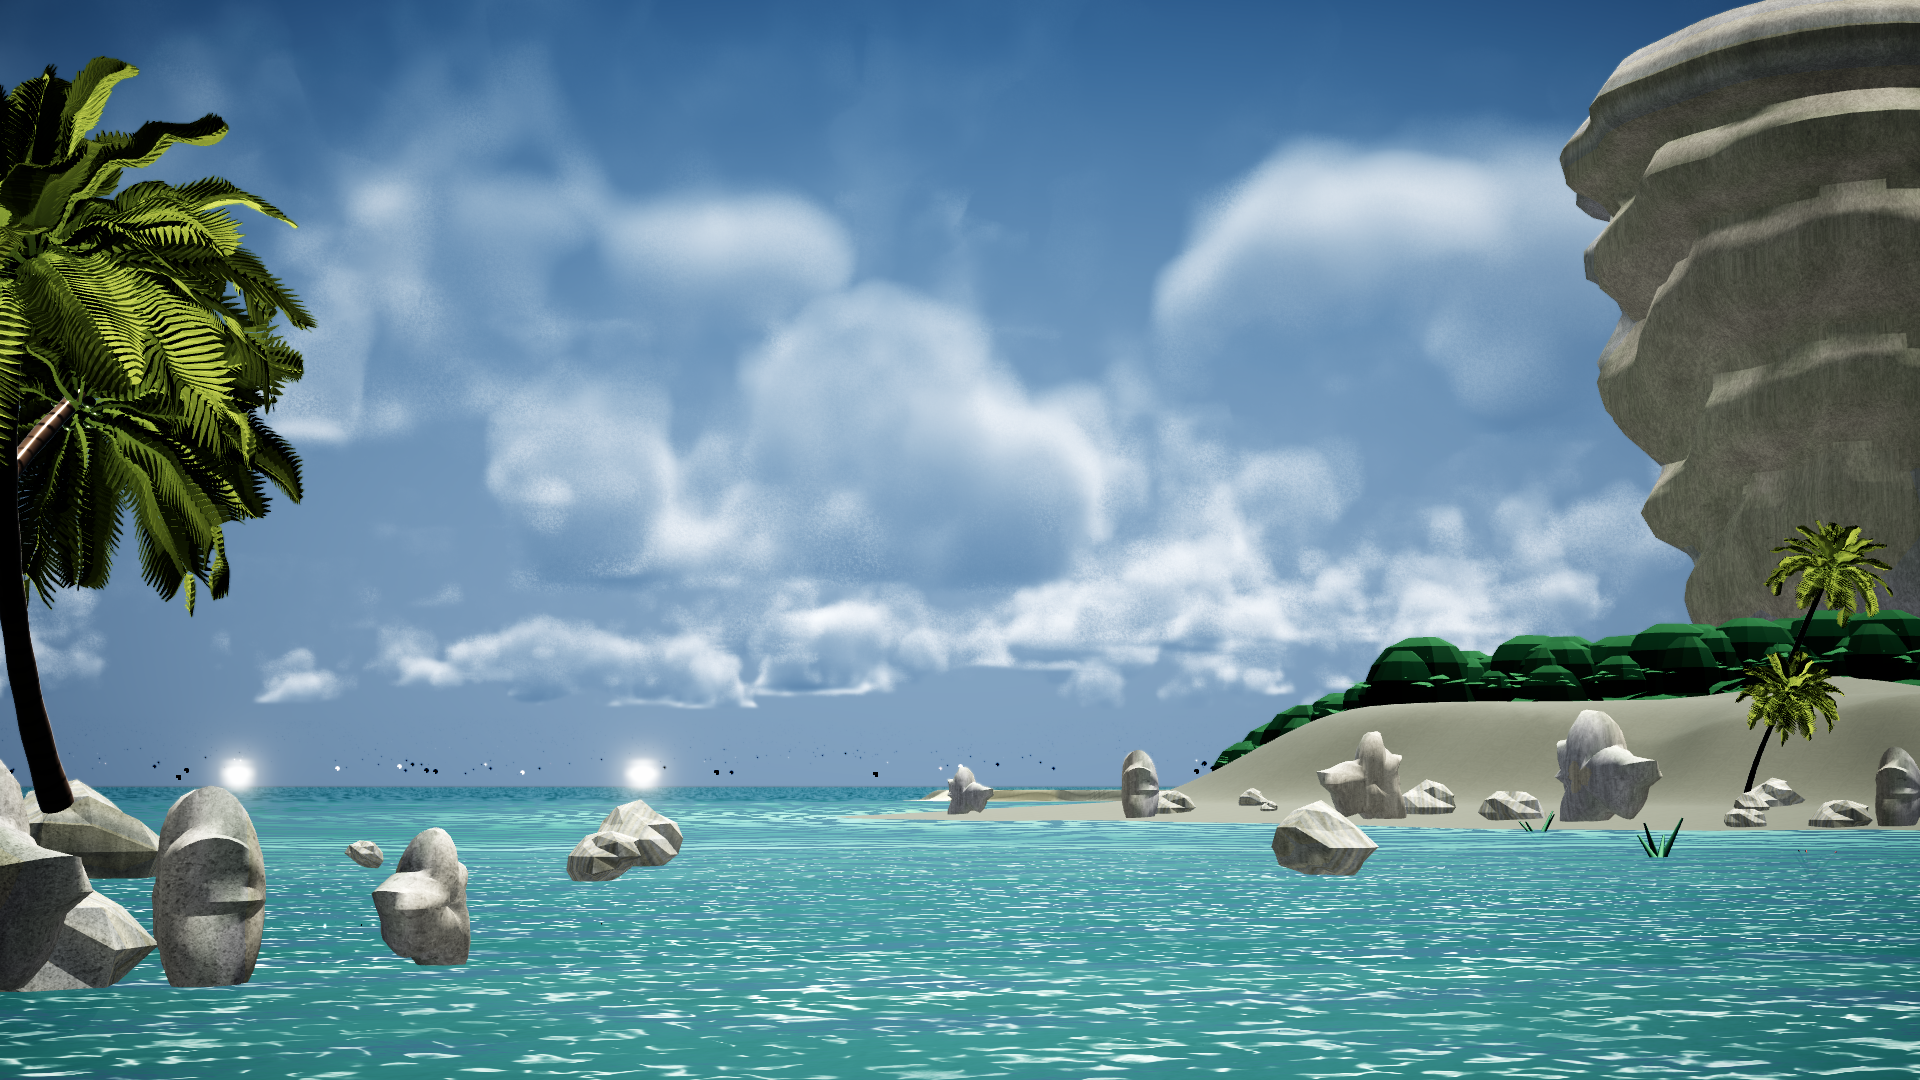
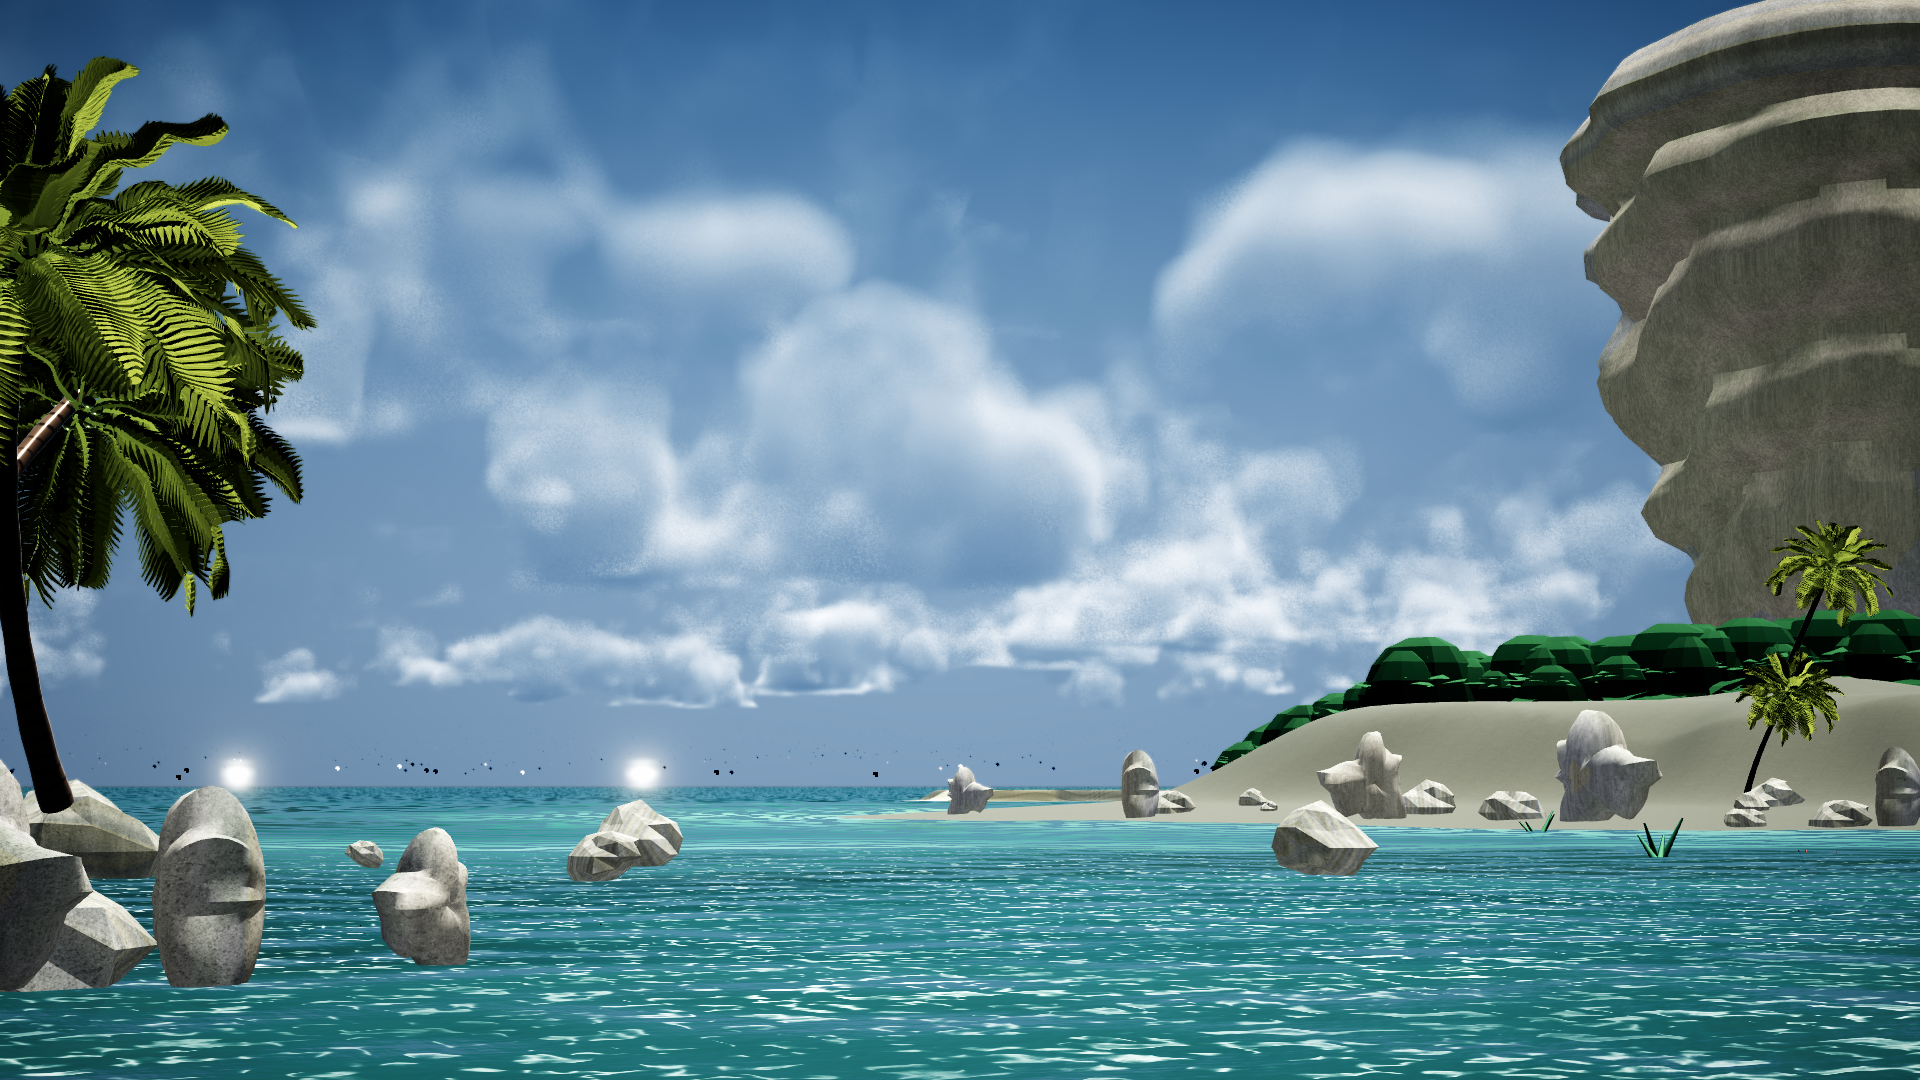
feat(R137): 潟湖水面不再'一片均匀' -- 斑块+错向+压返色. ①水底两级低频噪声造亮沙洲/深色海草分块 ②波纹第二层旋转37度(去灯芯绒) ③_SandAbsorb 0.22->0.34 / _Absorb 0.46->0.55 让深浅真分得开 ④两次踩坑: '只在浅水'门控把斑块系数压到0.1(像素差0.00%) / ValueNoise带符号直接比阈值永不成立(第三次踩) ⑤实测水面亮度std 38.3->42.0(进参考区间35~52), 局部对比52.7->57.7, Islet 125.3/50.2/104.0(饱和+4.8更贴参考)

Changed region(s): [[0.0, 0.7333, 1.0, 1.0], [0.0312, 0.7944, 0.0938, 0.8556], [0.0625, 0.7333, 0.0938, 0.7639]]

diff --git a/Assets/Editor/R137Setup.cs b/Assets/Editor/R137Setup.cs
@@ -1,0 +1,81 @@
+// R137Setup.cs — R137 潟湖水面"太平"（R136 审计 Top1）
+//
+// 审计数据：水面局部对比 我方 45.3 / 参考 86.4（海面 37.0 / 65.0）。
+// 观感：一片均匀浅青绿 + 规则"灯芯绒"波纹。
+// 手法：①水底低频斑块（亮沙/深色海草）②波纹第二层错向 37°
+// 90  斑块开 / 90b 关
+// 91/91b 波纹错向 开/关
+// 92  全部开（推荐档）
+#if UNITY_EDITOR
+using UnityEditor;
+using UnityEngine;
+
+namespace WaterProject.EditorTools
+{
+    internal static class R137Setup
+    {
+        const string Mat = "Assets/Art/Materials/Islet_LagoonWater.mat";
+
+        static void P(string s) => System.IO.File.AppendAllText(
+            System.IO.Path.Combine(Application.dataPath, "../Logs/water_probe.txt"), s);
+
+        static void Set(string key, float v, string tag)
+        {
+            var m = AssetDatabase.LoadAssetAtPath<Material>(Mat);
+            if (m == null) { P("R137 REFUSED: 无 Islet_LagoonWater\n"); return; }
+            if (!m.HasProperty(key)) { P($"R137 REFUSED: 材质没有 {key}\n"); return; }
+            m.SetFloat(key, v);
+            EditorUtility.SetDirty(m);
+            AssetDatabase.SaveAssetIfDirty(m);
+            P($"R137 {tag}: {key}={v:F2}\n");
+        }
+
+        [MenuItem("Tools/R137/90 水底斑块=开")]
+        public static void PatchOn() => Set("_PatchAmt", 1f, "90 斑块开");
+
+        [MenuItem("Tools/R137/90b 水底斑块=关(旧)")]
+        public static void PatchOff() => Set("_PatchAmt", 0f, "90b 斑块关");
+
+        [MenuItem("Tools/R137/91 波纹错向=开")]
+        public static void RotOn() => Set("_WaveRotate", 1f, "91 错向开");
+
+        [MenuItem("Tools/R137/91b 波纹错向=关(旧)")]
+        public static void RotOff() => Set("_WaveRotate", 0f, "91b 错向关");
+
+        [MenuItem("Tools/R137/92 两项都开(推荐)")]
+        public static void BothOn()
+        {
+            Set("_PatchAmt", 1f, "92 斑块开");
+            Set("_WaveRotate", 1f, "92 错向开");
+        }
+
+        [MenuItem("Tools/R137/93 两项都关(旧)")]
+        public static void BothOff()
+        {
+            Set("_PatchAmt", 0f, "93 斑块关");
+            Set("_WaveRotate", 0f, "93 错向关");
+        }
+
+        [MenuItem("Tools/R137/95 沙底衰减=0.34(压住返色)")]
+        public static void SandAbs34() => Set("_SandAbsorb", 0.34f, "95 沙衰减0.34");
+
+        [MenuItem("Tools/R137/95b 沙底衰减=0.22(旧)")]
+        public static void SandAbs22() => Set("_SandAbsorb", 0.22f, "95b 沙衰减0.22");
+
+        [MenuItem("Tools/R137/96 水体吸收=0.55")]
+        public static void Absorb55() => Set("_Absorb", 0.55f, "96 吸收0.55");
+
+        [MenuItem("Tools/R137/96b 水体吸收=0.46(旧)")]
+        public static void Absorb46() => Set("_Absorb", 0.46f, "96b 吸收0.46");
+
+        [MenuItem("Tools/R137/94 探针")]
+        public static void Probe()
+        {
+            var m = AssetDatabase.LoadAssetAtPath<Material>(Mat);
+            if (m == null) { P("R137/94 无材质\n"); return; }
+            P($"R137/94 patch={m.GetFloat("_PatchAmt"):F2} rot={m.GetFloat("_WaveRotate"):F2} "
+              + $"absorb={m.GetFloat("_Absorb"):F2} sandAbsorb={m.GetFloat("_SandAbsorb"):F2}\n");
+        }
+    }
+}
+#endif

diff --git a/Docs/学习路径与知识库/检测报告/R136_重审计.md b/Docs/学习路径与知识库/检测报告/R136_重审计.md
@@ -61,3 +61,36 @@
 > 2. **天太浅**——原片的天顶是很深的蓝（数值 34），我们的是浅蓝（69~75），**亮了一倍**。
 >    总亮度其实是对的，所以**不是曝光问题，是蓝得不够深**。
 > 3. 上面两条修完，画面"对比度不够"的抱怨（一直存在）大概率会一起解决。
+
+---
+
+## 六、Top1 执行：潟湖水面"太平"（R137）
+
+### 改了三处
+
+| # | 改动 | 参数 |
+| --- | --- | --- |
+| 1 | **水底斑块**：两级低频噪声造"亮沙洲 / 深色海草"分块 | `_PatchAmt 0→1` |
+| 2 | **波纹第二层旋转 37°**：两层同向 ⇒ 规则"灯芯绒" | `_WaveRotate 0→1` |
+| 3 | **压住沙底返色 / 提高水体吸收**：让深浅真的分得开 | `_SandAbsorb 0.22→0.34`、`_Absorb 0.46→0.55` |
+
+### 踩的坑（两次都在这一个点上）
+
+1. 第一版把"深色斑"乘了 `(1 - depthMix)`（想着"只在浅水"）——
+   潟湖实际水深 2~4m，`depthMix≈0.75` ⇒ 系数≈0.1 ⇒ **像素差 0.00%，等于没做**。
+2. 第二版直接比阈值，**又踩了"ValueNoise 带符号"**（≈±0.7，`smoothstep(0.44,0.66,pmix)` 永远不成立）。
+   归一化 `pmix*0.5+0.5` 后立刻生效（像素差 8.00%）。
+   > 这是同一条坑第三次出现（AGENTS 第 18 条），**新写噪声用法一律先问"它是不是带符号"**。
+
+### 实测（对比 R136 审计基线）
+
+| 指标 | 改前 | 改后 | 参考区间 |
+| --- | --- | --- | --- |
+| 水面**亮度 std**（色调范围） | 38.3 | **42.0** | 35.0 ~ 52.4 ✅ **已进区间** |
+| 水面局部对比（高频结构） | 52.7 | **57.7** | 79.6 ~ 86.4（仍偏低） |
+| 水面饱和 | 66.4 | **67.8** | 70.6 ~ 107.2（偏低） |
+| Islet 全场景 | 129.8/49.2/99.2 | **125.3/50.2/104.0** | 饱和更贴参考 |
+
+> **"色调范围"已进参考区间**；剩下的高频结构差距（57.7 vs 80）
+> 主要来自**机位**——参考是俯视，能看见焦散网；我们是 1.7m 平视。
+> 这条差距不再当作"必须追平"的目标。
